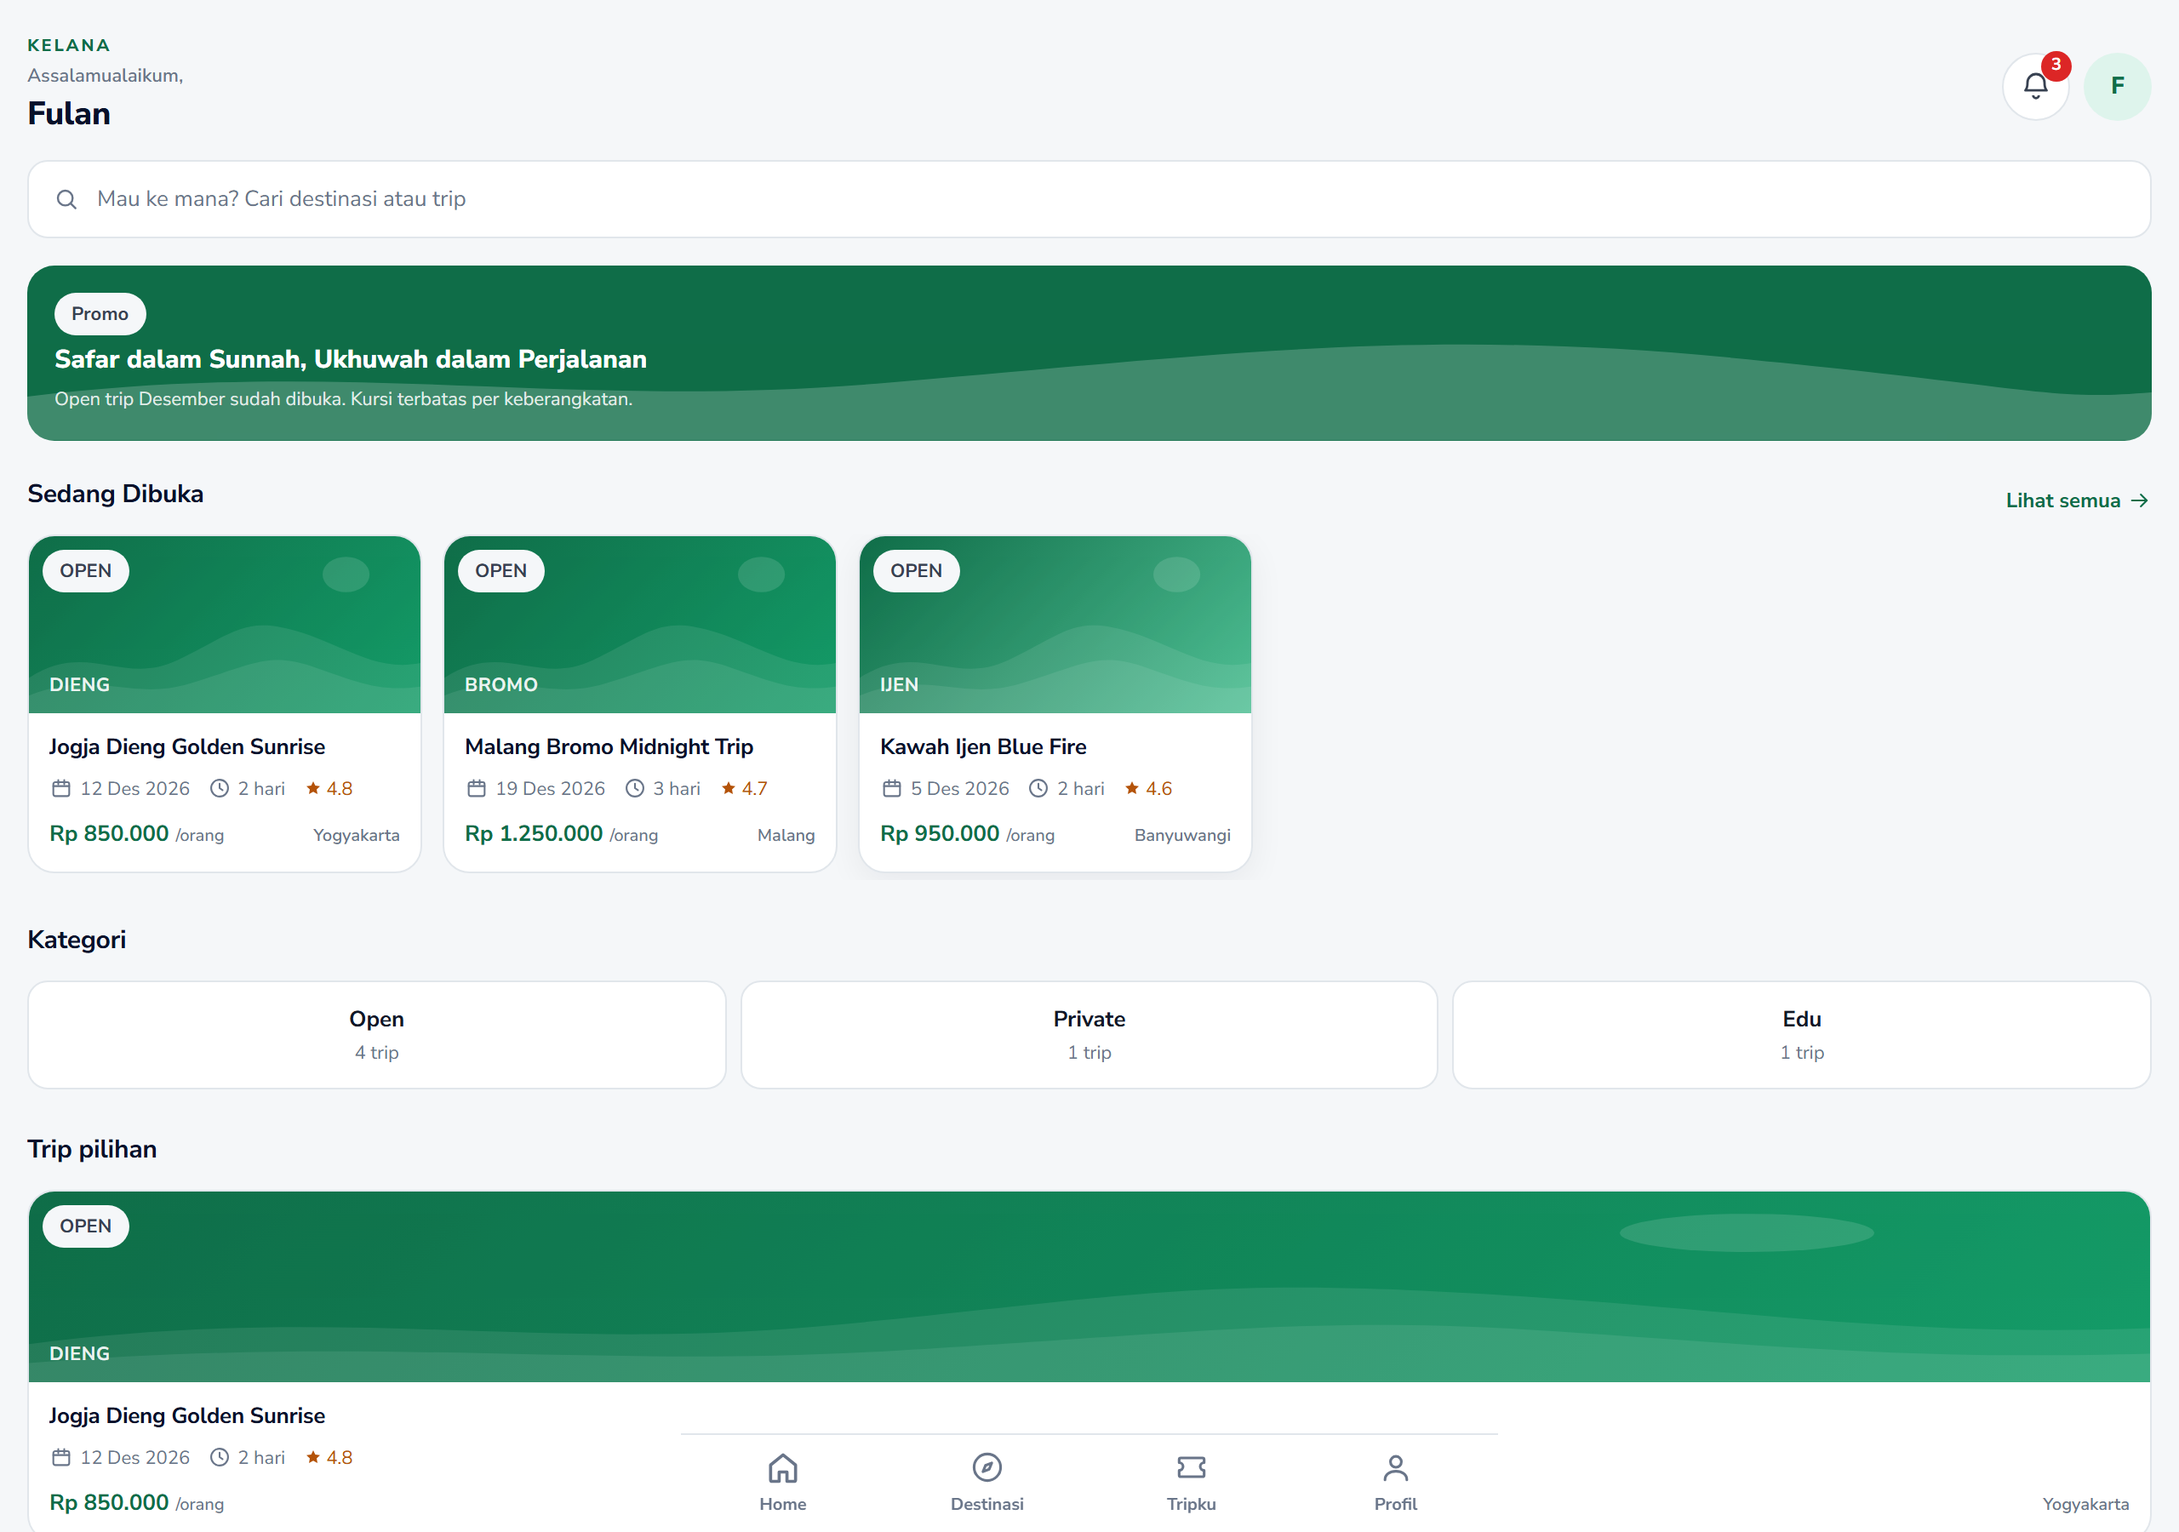
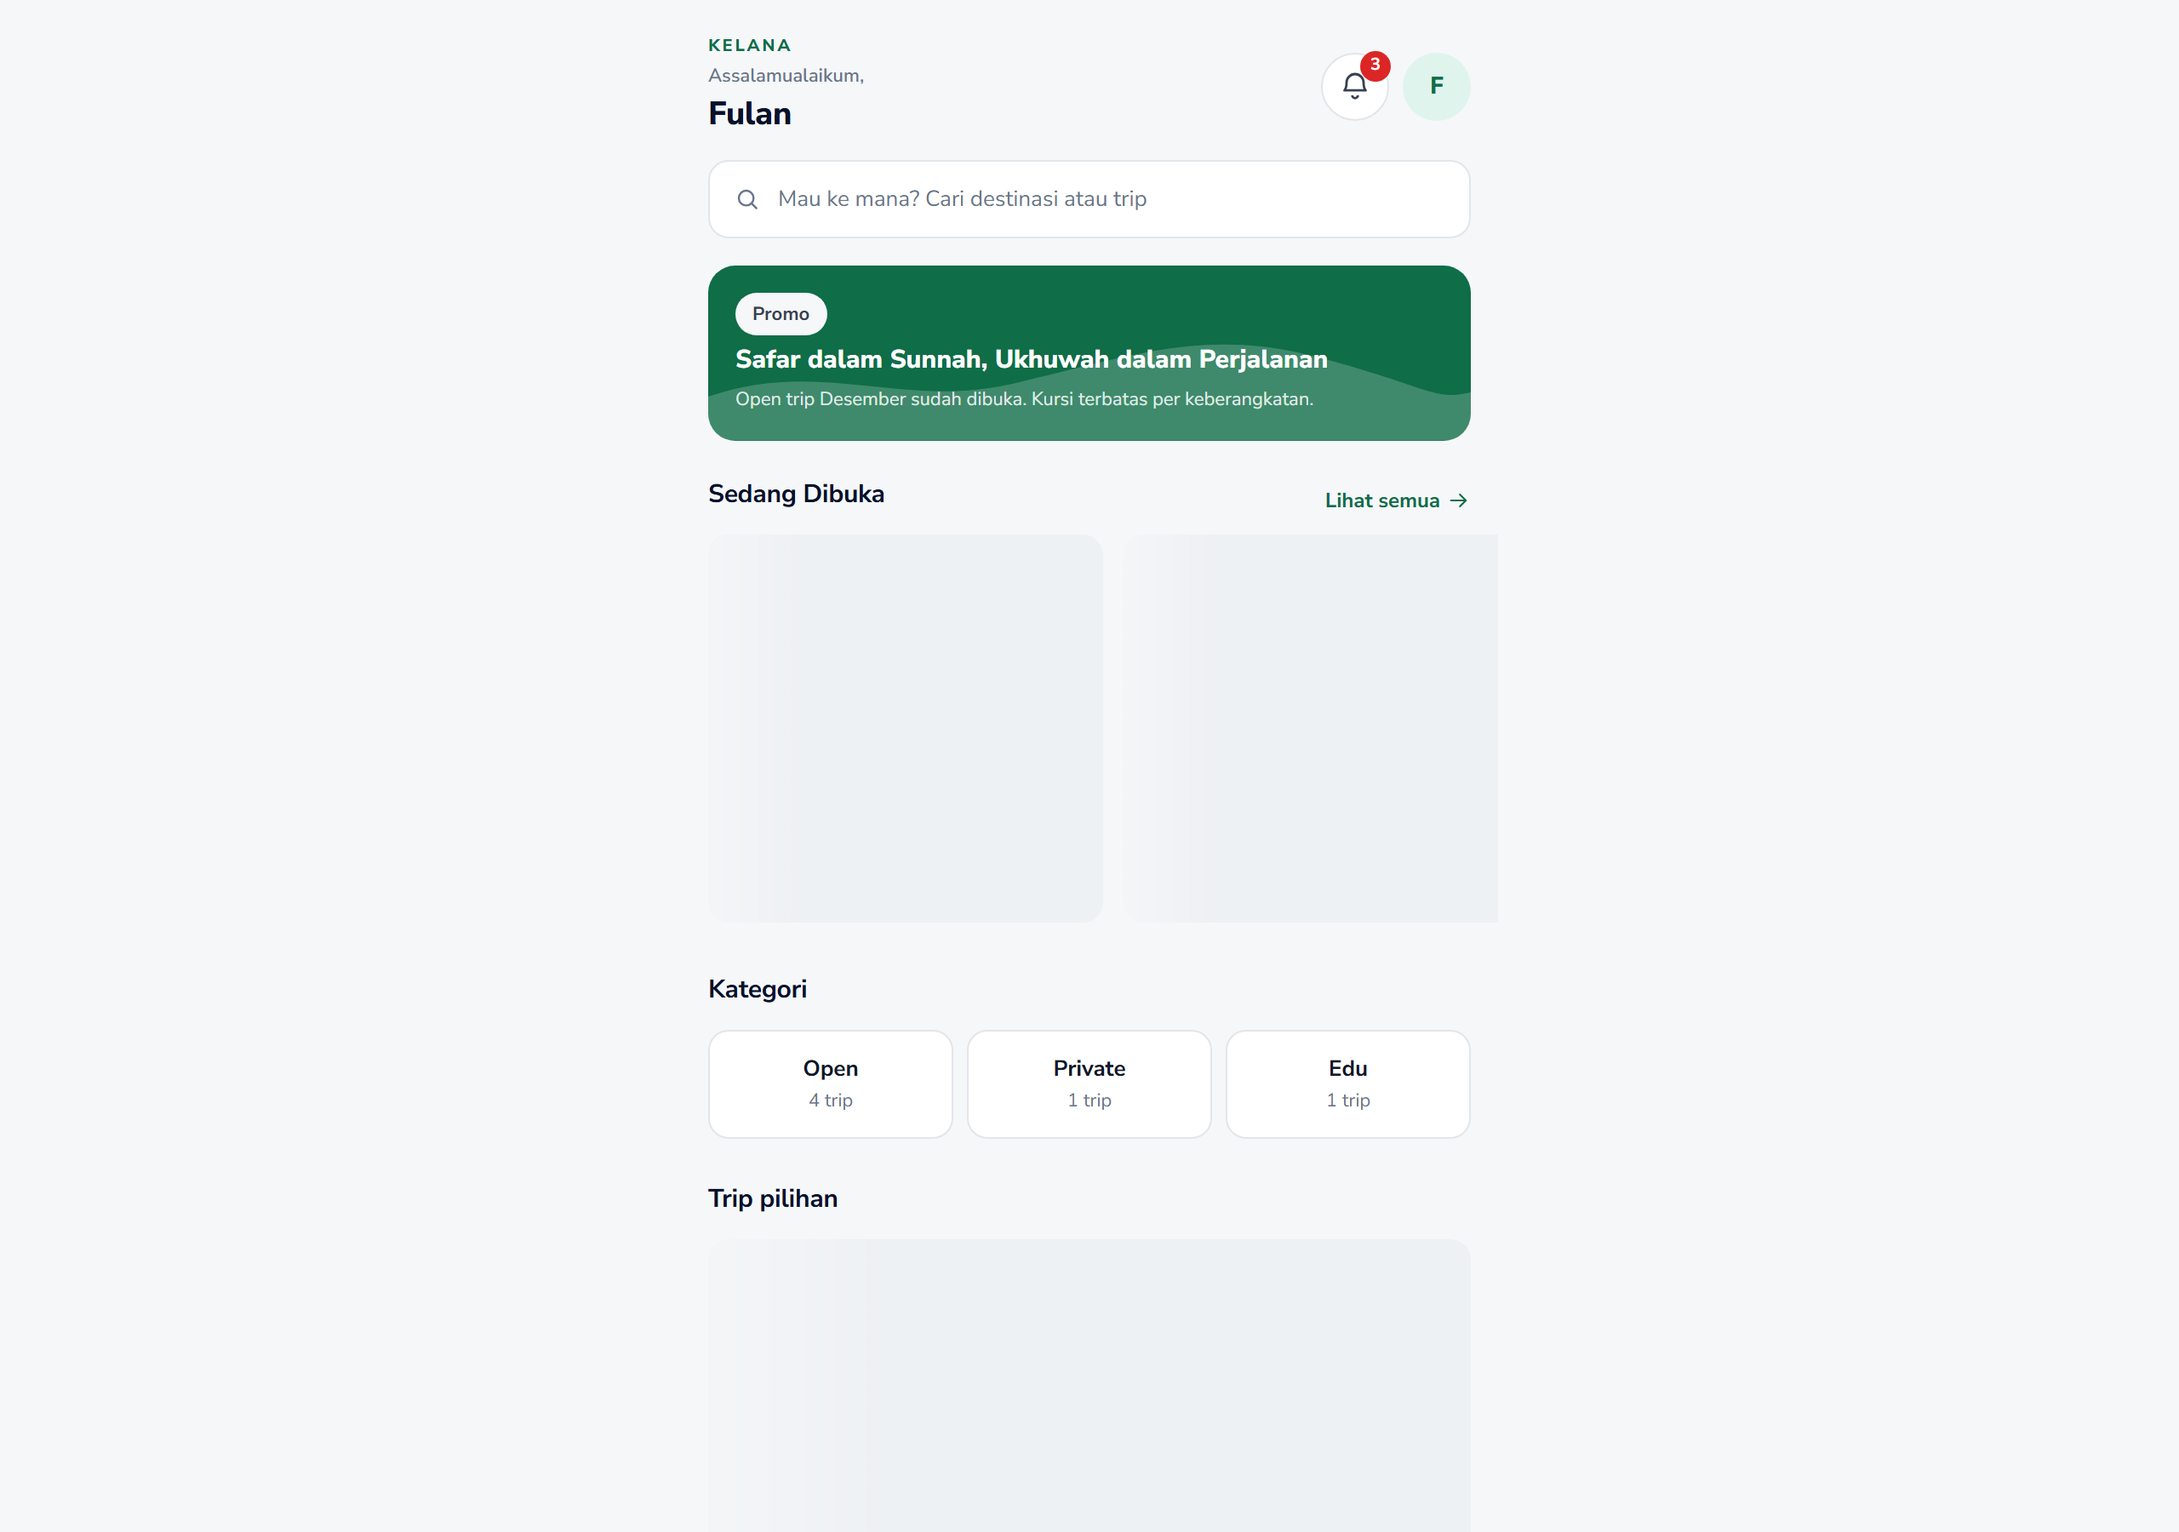
fix(ui): resolve trip, booking, and desktop layout issues
Clamp the app shell to 480px, stop the tab bar from covering content on desktop, keep the trip price readable, gate the lock CTA on at least one participant, hide empty hotel sections, and drop the nonexistent ALAM category. Adds e2e coverage at 320x700, 390x844, and 1280x800.

Closes #1

Closes #2

Closes #3

Closes #4

Closes #5

Closes #6

diff --git a/e2e/ui-issues.spec.ts b/e2e/ui-issues.spec.ts
@@ -1,0 +1,135 @@
+import { expect, test, type Page } from '@playwright/test';
+
+const VIEWPORTS = [
+  { label: '390x844', width: 390, height: 844 },
+  { label: '320x700', width: 320, height: 700 },
+  { label: '1280x800', width: 1280, height: 800 },
+];
+
+async function signIn(page: Page) {
+  await page.goto('/');
+  await page.getByRole('link', { name: /Sudah punya akun\? Masuk/i }).click();
+  await page.getByLabel('Email').fill('fulan@kelana.id');
+  await page.getByLabel('Kata Sandi').fill('Password123');
+  await page.getByRole('button', { name: 'Masuk' }).click();
+  await expect(page.getByRole('heading', { name: /Fulan/i })).toBeVisible();
+}
+
+test.beforeEach(async ({ page }) => {
+  await signIn(page);
+});
+
+test('#1 the trip price is never truncated or covered by the CTA', async ({ page }) => {
+  for (const viewport of VIEWPORTS) {
+    await page.setViewportSize(viewport);
+    await page.goto('/trips/bromo-private');
+    const price = page.getByTestId('trip-price');
+    await expect(price).toHaveText('Rp 3.500.000');
+
+    const metrics = await price.evaluate((element) => ({
+      clientWidth: element.clientWidth,
+      scrollWidth: element.scrollWidth,
+    }));
+    expect(metrics.scrollWidth, `${viewport.label}: price clipped`).toBeLessThanOrEqual(metrics.clientWidth + 1);
+
+    const cta = page.getByRole('button', { name: 'Pesan Sekarang' });
+    const [priceBox, ctaBox] = await Promise.all([price.boundingBox(), cta.boundingBox()]);
+    expect(priceBox).not.toBeNull();
+    expect(ctaBox).not.toBeNull();
+    expect(priceBox!.x + priceBox!.width, `${viewport.label}: price overlaps CTA`).toBeLessThanOrEqual(ctaBox!.x + 0.5);
+  }
+});
+
+test('#2 the lock CTA stays disabled until one participant is added', async ({ page }) => {
+  await page.setViewportSize(VIEWPORTS[0]!);
+  await page.goto('/booking/jogja-dieng');
+  const cta = page.getByRole('button', { name: 'Kunci Kursi & Lanjutkan' });
+
+  await expect(cta).toBeDisabled();
+  await expect(page.getByText('Rp 0', { exact: true }).first()).toBeVisible();
+
+  await page.getByRole('button', { name: 'Tambah peserta' }).click();
+  await expect(cta).toBeEnabled();
+});
+
+test('#3 the destinations page only offers categories the API returns', async ({ page }) => {
+  await page.setViewportSize(VIEWPORTS[0]!);
+  await page.goto('/destinations');
+  await expect(page.getByRole('link', { name: 'Alam', exact: true })).toHaveCount(0);
+
+  // A stale ALAM link falls back to all trips instead of an empty catalogue.
+  await page.goto('/destinations?category=ALAM');
+  await expect(page.getByTestId('trip-card').first()).toBeVisible();
+  await expect(page.getByText('Belum ada trip di kategori ini')).toHaveCount(0);
+});
+
+test('#4 the content is a centred 480px shell from 320px to 1280px', async ({ page }) => {
+  for (const viewport of VIEWPORTS) {
+    await page.setViewportSize(viewport);
+    for (const path of ['/home', '/destinations']) {
+      await page.goto(path);
+      const shell = page.getByTestId('tab-screen');
+      await expect(shell).toBeVisible();
+      const box = await shell.boundingBox();
+      expect(box).not.toBeNull();
+      expect(box!.width, `${viewport.label} ${path}: shell width`).toBeLessThanOrEqual(480.5);
+      expect(box!.width, `${viewport.label} ${path}: shell uses the viewport`).toBeGreaterThanOrEqual(
+        Math.min(viewport.width, 480) - 0.5,
+      );
+      expect(
+        Math.abs(box!.x - (viewport.width - box!.width) / 2),
+        `${viewport.label} ${path}: shell not centred`,
+      ).toBeLessThanOrEqual(1);
+
+      const overflow = await page.evaluate(() => document.documentElement.scrollWidth - window.innerWidth);
+      expect(overflow, `${viewport.label} ${path}: horizontal overflow`).toBeLessThanOrEqual(0);
+    }
+  }
+});
+
+test('#5 the tab bar is fixed on mobile and static on desktop so it never covers content', async ({ page }) => {
+  await page.setViewportSize({ width: 1280, height: 800 });
+  for (const path of ['/home', '/destinations', '/mytrips']) {
+    await page.goto(path);
+    const nav = page.getByRole('navigation', { name: 'Navigasi utama' });
+    await expect(nav).toBeVisible();
+    expect(await nav.evaluate((element) => getComputedStyle(element).position), `${path}: desktop nav position`).toBe(
+      'static',
+    );
+
+    await page.evaluate(() => window.scrollTo(0, document.body.scrollHeight));
+    const gap = await nav.evaluate((element) => {
+      const previous = element.previousElementSibling;
+      if (!previous) return 0;
+      return element.getBoundingClientRect().top - previous.getBoundingClientRect().bottom;
+    });
+    expect(gap, `${path}: nav overlaps the content above it`).toBeGreaterThanOrEqual(-0.5);
+  }
+
+  await page.setViewportSize(VIEWPORTS[0]!);
+  for (const path of ['/home', '/destinations', '/mytrips']) {
+    await page.goto(path);
+    const nav = page.getByRole('navigation', { name: 'Navigasi utama' });
+    expect(await nav.evaluate((element) => getComputedStyle(element).position), `${path}: mobile nav position`).toBe(
+      'fixed',
+    );
+    const [navBox, paddingBottom] = await Promise.all([
+      nav.boundingBox(),
+      page.getByTestId('tab-screen').evaluate((element) => parseFloat(getComputedStyle(element).paddingBottom)),
+    ]);
+    expect(navBox).not.toBeNull();
+    expect(paddingBottom, `${path}: content lacks room for the fixed nav`).toBeGreaterThanOrEqual(navBox!.height);
+  }
+});
+
+test('#6 the hotel section is hidden when a trip has no hotel options', async ({ page }) => {
+  await page.setViewportSize(VIEWPORTS[0]!);
+  await page.goto('/booking/kawah-ijen');
+  await expect(page.getByText('Jumlah Peserta', { exact: true })).toBeVisible();
+  await expect(page.getByRole('heading', { name: 'Pilihan Hotel' })).toHaveCount(0);
+  await expect(page.getByText('Titik Penjemputan')).toBeVisible();
+
+  await page.goto('/booking/jogja-dieng');
+  await expect(page.getByRole('heading', { name: 'Pilihan Hotel' })).toBeVisible();
+  await expect(page.getByText('Hotel Dieng A')).toBeVisible();
+});

diff --git a/src/routes/booking.tsx b/src/routes/booking.tsx
@@ -294,7 +294,13 @@ export function BookingPage() {
               {paid ? 'Sudah dibayar' : isComplete ? 'Pilih Pembayaran' : 'Lengkapi dokumen dulu'}
             </Button>
           ) : (
-            <Button full size="lg" loading={lock.isPending} onClick={() => void lockSeats()}>
+            <Button
+              full
+              size="lg"
+              loading={lock.isPending}
+              disabled={drafts.length === 0}
+              onClick={() => void lockSeats()}
+            >
               Kunci Kursi &amp; Lanjutkan
             </Button>
           )}
@@ -372,33 +378,35 @@ export function BookingPage() {
           )}
         </section>
 
-        <section className="card p-3.5">
-          <h2 className="mb-2 text-[13px] font-bold">Pilihan Hotel</h2>
-          <div className="space-y-2">
-            {hotels.map((option) => (
-              <RadioCard
-                key={option.id}
-                name="hotel"
-                checked={(hotel?.id ?? hotels[0]?.id) === option.id}
-                onChange={() => !locked && setHotelId(option.id)}
-                title={option.name}
-                subtitle={option.address}
-                meta={option.extra_cost_idr > 0 ? `+${formatIDR(option.extra_cost_idr)}` : 'termasuk'}
-              >
-                <ul className="mt-1.5 flex flex-wrap gap-1">
-                  {option.facilities.map((facility) => (
-                    <li key={facility} className="rounded-full bg-canvas px-2 py-0.5 text-[10px] text-muted">
-                      {facility}
-                    </li>
-                  ))}
-                </ul>
-              </RadioCard>
-            ))}
-          </div>
-          {hotels.length === 1 ? (
-            <p className="hint">Trip ini hanya punya satu pilihan hotel, otomatis dipilih.</p>
-          ) : null}
-        </section>
+        {hotels.length > 0 ? (
+          <section className="card p-3.5">
+            <h2 className="mb-2 text-[13px] font-bold">Pilihan Hotel</h2>
+            <div className="space-y-2">
+              {hotels.map((option) => (
+                <RadioCard
+                  key={option.id}
+                  name="hotel"
+                  checked={(hotel?.id ?? hotels[0]?.id) === option.id}
+                  onChange={() => !locked && setHotelId(option.id)}
+                  title={option.name}
+                  subtitle={option.address}
+                  meta={option.extra_cost_idr > 0 ? `+${formatIDR(option.extra_cost_idr)}` : 'termasuk'}
+                >
+                  <ul className="mt-1.5 flex flex-wrap gap-1">
+                    {option.facilities.map((facility) => (
+                      <li key={facility} className="rounded-full bg-canvas px-2 py-0.5 text-[10px] text-muted">
+                        {facility}
+                      </li>
+                    ))}
+                  </ul>
+                </RadioCard>
+              ))}
+            </div>
+            {hotels.length === 1 ? (
+              <p className="hint">Trip ini hanya punya satu pilihan hotel, otomatis dipilih.</p>
+            ) : null}
+          </section>
+        ) : null}
 
         <section className="card space-y-3 p-3.5">
           <TextField

diff --git a/src/routes/destinations.tsx b/src/routes/destinations.tsx
@@ -7,23 +7,20 @@ import { EmptyState, Skeleton } from '@/components/ui';
 import { TripCard } from '@/components/TripCard';
 import { CompassIcon, SearchIcon } from '@/components/icons';
 
-// The API has no ALAM category (OPEN / PRIVATE / EDU only). "Alam" is a UI
-// filter over the nature destinations that exist in this catalogue.
-const NATURE_DESTINATIONS = new Set(['bromo', 'dieng', 'ijen', 'malang selatan', 'ciwidey']);
-
+// The API only returns OPEN / PRIVATE / EDU, so the chips follow that taxonomy.
 const chips = [
   { value: 'ALL', label: 'Semua' },
   { value: 'OPEN', label: 'Open' },
   { value: 'PRIVATE', label: 'Private' },
   { value: 'EDU', label: 'Edu' },
-  { value: 'ALAM', label: 'Alam' },
 ] as const;
 
 export function Destinations() {
   const navigate = useNavigate();
   const { category } = useSearch({ from: '/destinations' }) as { category?: string };
-  const active = category ?? 'ALL';
-  const trips = useTrips({ category: active === 'ALAM' ? undefined : active });
+  const requested = category ?? 'ALL';
+  const active = chips.some((chip) => chip.value === requested) ? requested : 'ALL';
+  const trips = useTrips({ category: active === 'ALL' ? undefined : active });
   const [recent, setRecent] = useState<string[]>([]);
   const [query, setQuery] = useState('');
 
@@ -31,9 +28,7 @@ export function Destinations() {
     setRecent(getRecentSearches());
   }, []);
 
-  const list = (trips.data?.data ?? []).filter((trip) =>
-    active === 'ALAM' ? NATURE_DESTINATIONS.has(trip.destination_city.toLowerCase()) : true,
-  );
+  const list = trips.data?.data ?? [];
 
   return (
     <TabScreen>

diff --git a/src/routes/trip.tsx b/src/routes/trip.tsx
@@ -45,7 +45,7 @@ export function TripDetailPage() {
   const itineraries = showAllItinerary ? data.itineraries : data.itineraries.slice(0, 2);
 
   return (
-    <div className="flex min-h-dvh flex-col pb-24">
+    <div className="mx-auto flex min-h-dvh w-full max-w-[480px] flex-col pb-24">
       <div className="relative">
         <TripImage slug={data.slug} city={data.destination_city} className="h-[220px] w-full" label={false} />
         <div className="absolute inset-x-0 top-0 flex items-center justify-between p-3">
@@ -176,12 +176,14 @@ export function TripDetailPage() {
 
       <div className="safe-bottom fixed inset-x-0 bottom-0 z-30 mx-auto w-full max-w-[480px] border-t border-line bg-surface/95 px-4 py-3 backdrop-blur">
         <div className="flex items-center gap-3">
-          <div className="min-w-0">
+          <div className="min-w-0 flex-1">
             <p className="text-[10px] text-muted">Harga mulai</p>
-            <p className="truncate text-[14px] font-extrabold text-brand-dark">{formatIDR(data.base_price_idr)}</p>
+            <p data-testid="trip-price" className="text-[14px] font-extrabold whitespace-nowrap text-brand-dark">
+              {formatIDR(data.base_price_idr)}
+            </p>
           </div>
           <Button
-            full
+            className="shrink-0"
             size="lg"
             disabled={openSchedules.length === 0}
             onClick={() => {

diff --git a/src/components/AppShell.tsx b/src/components/AppShell.tsx
@@ -93,7 +93,7 @@ export function TabBar() {
   return (
     <nav
       aria-label="Navigasi utama"
-      className="safe-bottom fixed inset-x-0 bottom-0 z-30 mx-auto w-full max-w-[480px] border-t border-line bg-surface/95 backdrop-blur"
+      className="safe-bottom fixed inset-x-0 bottom-0 z-30 mx-auto mt-auto w-full max-w-[480px] border-t border-line bg-surface/95 backdrop-blur md:static"
     >
       <ul className="grid grid-cols-4">
         {tabs.map((tab) => (
@@ -120,7 +120,7 @@ export function TabBar() {
 
 export function TabScreen({ children }: { children: ReactNode }) {
   return (
-    <div className="flex min-h-dvh flex-col pb-20">
+    <div data-testid="tab-screen" className="mx-auto flex min-h-dvh w-full max-w-[480px] flex-col pb-20 md:pb-0">
       {children}
     </div>
   );
@@ -140,7 +140,7 @@ export function FlowScreen({
   back?: boolean;
 }) {
   return (
-    <div className="flex min-h-dvh flex-col">
+    <div className="mx-auto flex min-h-dvh w-full max-w-[480px] flex-col">
       <AppHeader title={title} subtitle={subtitle} back={back} />
       <main className="flex-1 px-4 py-4">{children}</main>
       {footer ? (

diff --git a/src/mocks/data.ts b/src/mocks/data.ts
@@ -166,10 +166,8 @@ export const trips: TripDetail[] = [
       { name: 'Sarapan', type: 'include' },
       { name: 'Sewa headlamp', type: 'exclude' },
     ],
-    hotel_options: [
-      hotel('h-ijen-a', 'Hotel Ijen View', 'Jl. Raya Licin, Banyuwangi', 0, ['TV & AC', 'WIFI 24 Jam']),
-      hotel('h-ijen-b', 'Homestay Srimulyo', 'Sempol, Ijen', 100000, ['TV & AC', 'Restoran']),
-    ],
+    // Mirrors the API seed: not every trip offers hotel add-ons.
+    hotel_options: [],
     schedules: [
       {
         id: 's-ijen-1',
